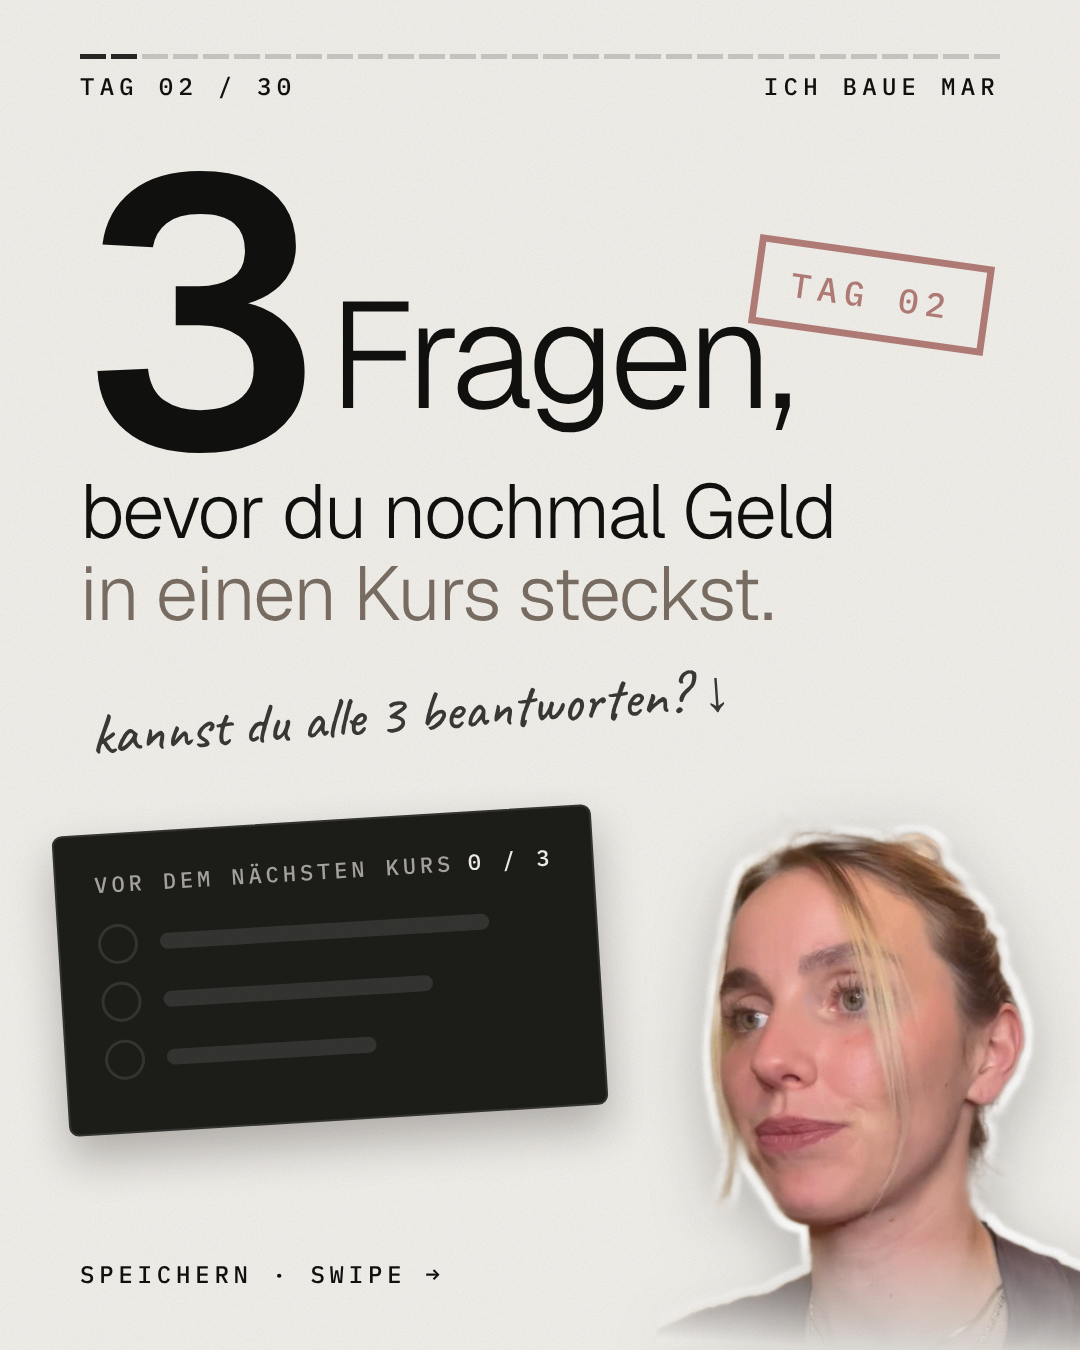
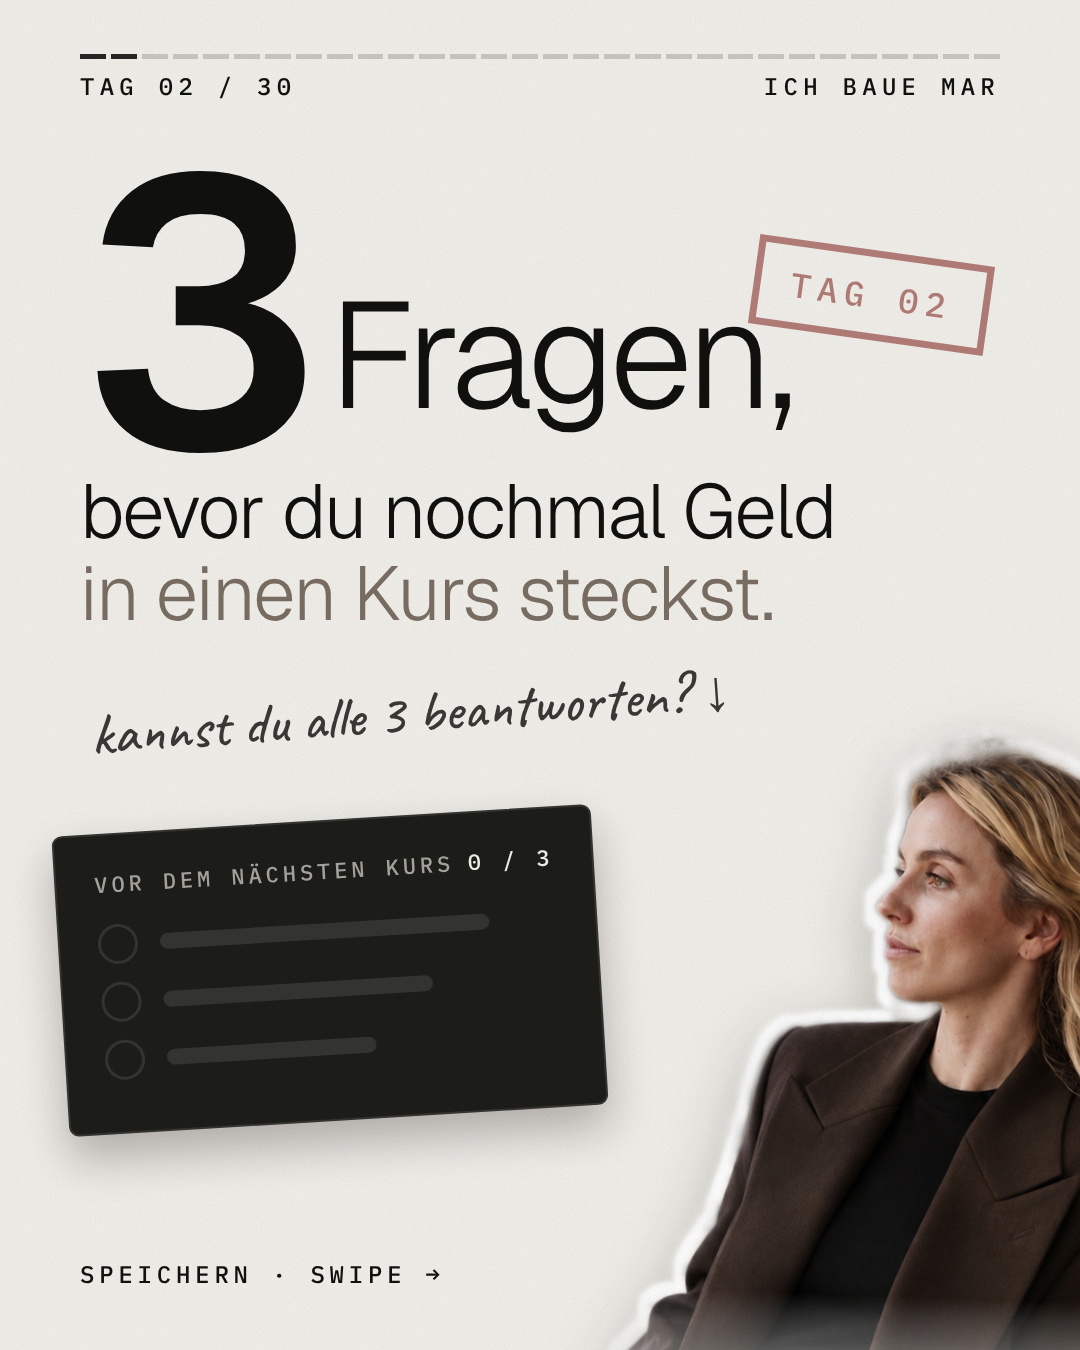
Karussell Tag 2: Cover mit neuem Foto
Claude-Session: https://claude.ai/code/session_01L6YvoYvajkrDmdsduXr3VN

Changed region(s): [[0.5806, 0.5289, 1.0, 1.0]]

diff --git a/carousels/tag02/carousel.html b/carousels/tag02/carousel.html
@@ -47,7 +47,7 @@ p.body{font-weight:400;font-size:40px;line-height:1.38;color:#3a3733}
    <h1 style="font-size:150px;margin-bottom:34px">Fragen,</h1></div>
   <h2 style="margin-top:6px;font-size:76px">bevor du nochmal Geld<br><span class="grey">in einen Kurs steckst.</span></h2>
  </div>
- <img src="marina_sticker.png" style="position:absolute;right:-110px;bottom:-10px;width:520px;transform:rotate(3deg);filter:drop-shadow(0 18px 30px rgba(20,16,12,.25))">
+ <img src="marina_sticker.png" style="position:absolute;right:-170px;bottom:-120px;width:700px;transform:rotate(2deg);filter:drop-shadow(0 18px 30px rgba(20,16,12,.25))">
  <div style="position:absolute;left:60px;top:820px;width:540px;transform:rotate(-3.5deg)">
   <div class="card" style="box-shadow:0 22px 44px rgba(20,16,12,.28)"><div class="t"><span>VOR DEM NÄCHSTEN KURS</span><b>0 / 3</b></div>
    <div class="row"><span class="ck"></span><span class="ph" style="width:330px"></span></div>
